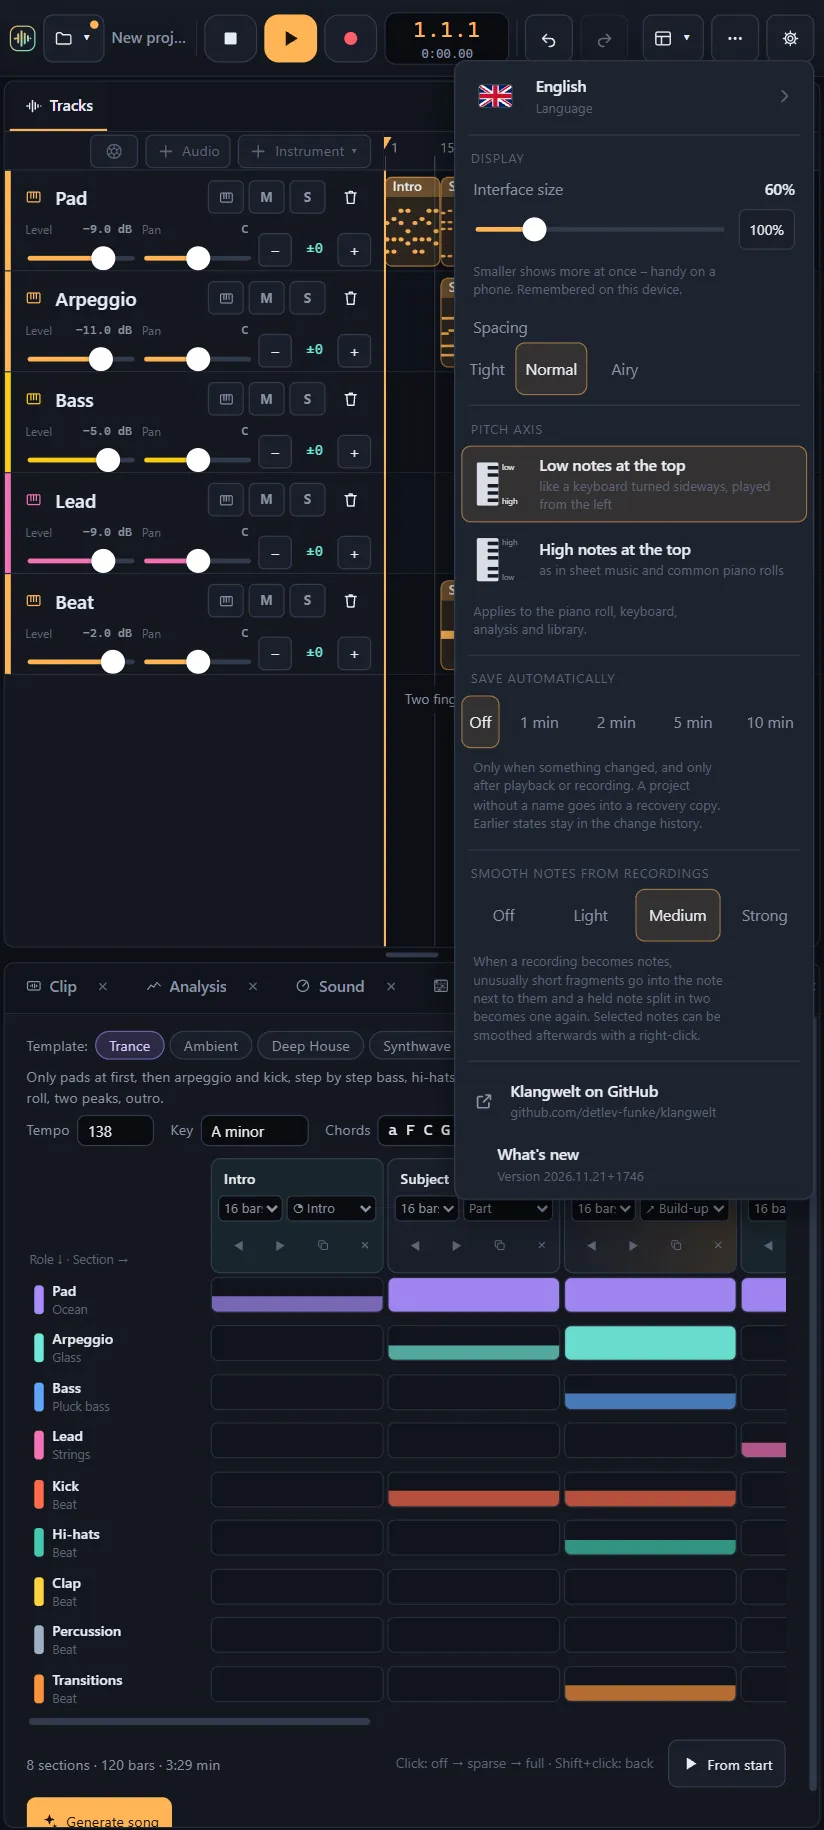
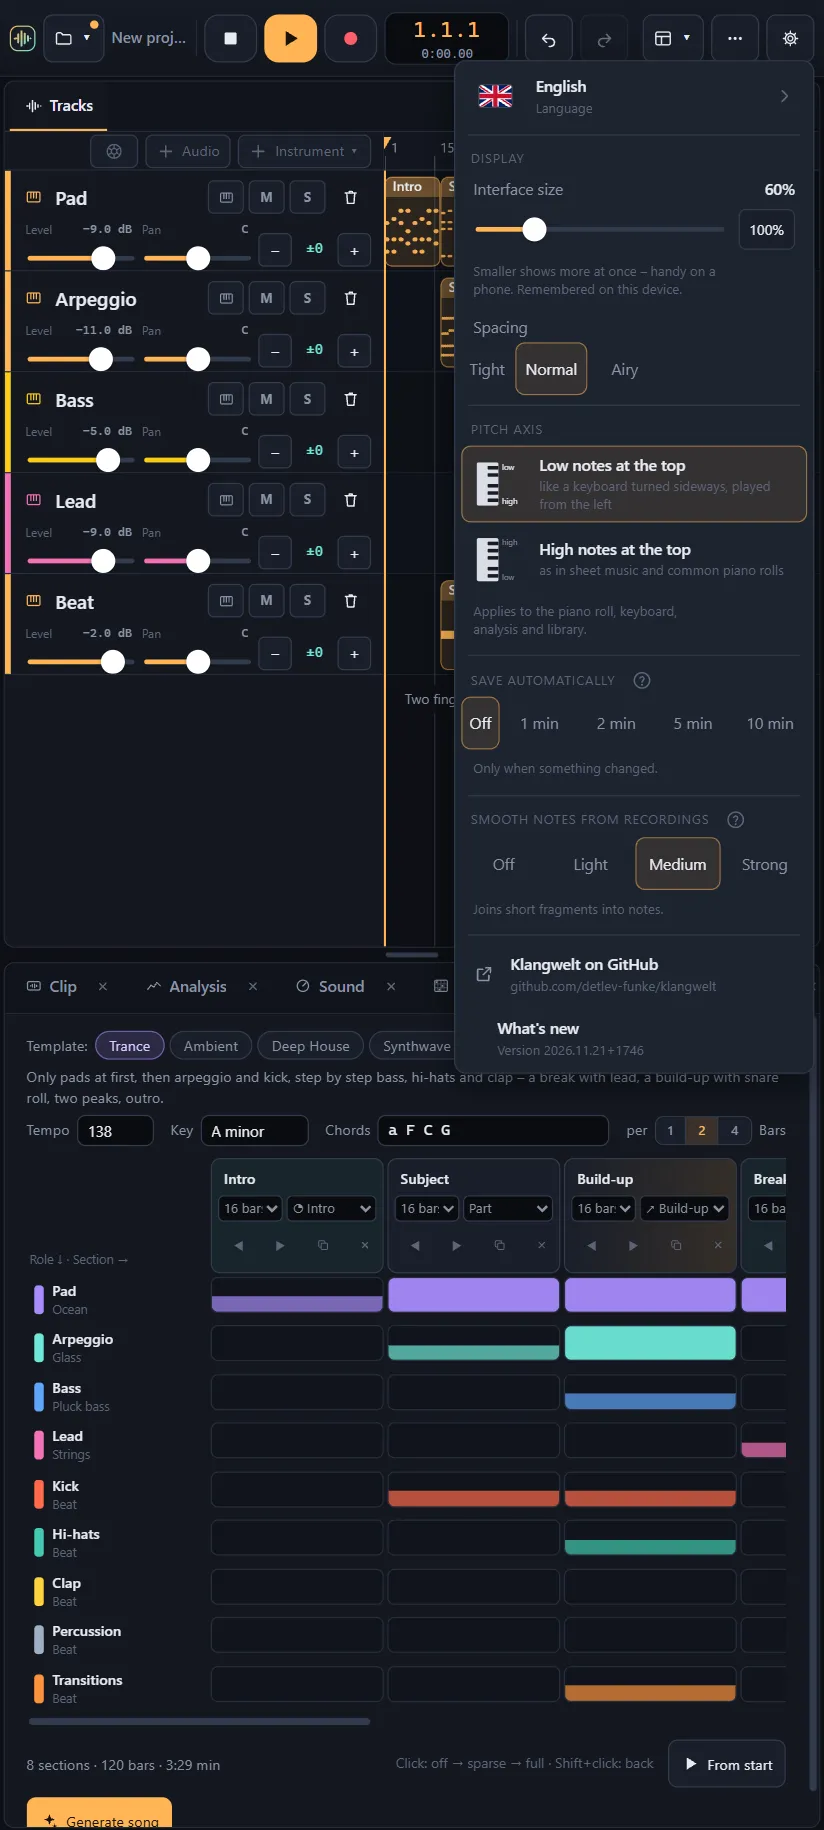
Gear menu: short hints for autosave and smoothing, the full explanation behind ⓘ
The long texts under "Save automatically" and "Smooth notes from recordings"
become a few words. The full explanation is the tooltip of the setting, a tap or
click on the ⓘ next to its title unfolds it (tooltips never show for a finger;
finger-sized on touch screens), and F1 over it shows it in the help window
(help.ts entries einstellungen-autosave / einstellungen-glaetten). Tests in
tests/web/display.test.mjs; the changelog screenshots show the new menu.

Changed region(s): [[0.5461, 0.4049, 0.8799, 0.6852], [0.9102, 0.623, 0.9405, 0.6541], [0.8192, 0.6541, 0.8495, 0.6852]]

diff --git a/ui/src/components/settings.ts b/ui/src/components/settings.ts
@@ -5,6 +5,7 @@ import { AUTOSAVE_CHOICES, autosaveSeconds, setAutosaveSeconds, switchLanguageKe
 import { backend } from "../bridge.js";
 import { dropdown, h, icon, setRange } from "../dom.js";
 import { flag } from "../flags.js";
+import { AUTOSAVE_HELP, SMOOTH_HELP } from "../help.js";
 import { LANGUAGES, language, t } from "../i18n.js";
 import { highOnTop, setHighOnTop } from "../pianoroll.js";
 import { SMOOTH_LEVELS, setSmoothLevel, smoothLabel, smoothLevel, smoothTitle } from "../smoothing.js";
@@ -113,6 +114,34 @@ function languageOptions(close: () => void): HTMLElement {
       ),
     ),
   );
+}
+
+/** A setting with a short hint; the full explanation is its tooltip and, behind an ⓘ button, a line to
+ *  unfold – tooltips never show for a finger. `help`: its entry in the help window (F1, help.ts). */
+function explained(help: string, title: string, options: HTMLElement, short: string, full: string): HTMLElement[] {
+  const more = h("div", { class: "menu-hint menu-more", hidden: true, "data-help": help }, full);
+  const info: HTMLButtonElement = h(
+    "button",
+    {
+      class: "info-btn",
+      title: full,
+      "aria-label": t("More about this"),
+      "aria-expanded": "false",
+      onclick: () => {
+        more.hidden = !more.hidden;
+        info.setAttribute("aria-expanded", more.hidden ? "false" : "true");
+      },
+    },
+    icon("help"),
+  );
+  options.dataset.help = help;
+  options.title = full;
+  return [
+    h("div", { class: "menu-title with-info", "data-help": help }, title, info),
+    options,
+    h("div", { class: "menu-hint", title: full, "data-help": help }, short),
+    more,
+  ];
 }
 
 /** "Language" is always shown in English, too – whoever ended up in a foreign language finds the way back. */
@@ -322,13 +351,9 @@ export function settingsMenu(): HTMLElement {
         option(true, t("High notes at the top"), t("as in sheet music and common piano rolls")),
         h("div", { class: "menu-hint" }, t("Applies to the piano roll, keyboard, analysis and library.")),
         h("div", { class: "menu-sep" }),
-        h("div", { class: "menu-title" }, t("Save automatically")),
-        autosaveOptions(close),
-        h("div", { class: "menu-hint" }, t("Only when something changed, and only after playback or recording. A project without a name goes into a recovery copy. Earlier states stay in the change history.")),
+        ...explained("einstellungen-autosave", t("Save automatically"), autosaveOptions(close), t("Only when something changed."), AUTOSAVE_HELP()),
         h("div", { class: "menu-sep" }),
-        h("div", { class: "menu-title" }, t("Smooth notes from recordings")),
-        smoothOptions(close),
-        h("div", { class: "menu-hint" }, t("When a recording becomes notes, unusually short fragments go into the note next to them and a held note split in two becomes one again. Selected notes can be smoothed afterwards with a right-click.")),
+        ...explained("einstellungen-glaetten", t("Smooth notes from recordings"), smoothOptions(close), t("Joins short fragments into notes."), SMOOTH_HELP()),
         h("div", { class: "menu-sep" }),
         projectLink(close),
         whatsNewMenuItem(close),

diff --git a/ui/src/help.ts b/ui/src/help.ts
@@ -14,6 +14,12 @@ export interface HelpTopic {
   keys?: [string, string][];
 }
 
+/** Full explanations of two gear-menu settings: here in the help window, in the menu as tooltip and behind ⓘ. */
+export const AUTOSAVE_HELP = () =>
+  t("Only when something changed, and only after playback or recording. A project without a name goes into a recovery copy. Earlier states stay in the change history.");
+export const SMOOTH_HELP = () =>
+  t("When a recording becomes notes, unusually short fragments go into the note next to them and a held note split in two becomes one again. Selected notes can be smoothed afterwards with a right-click.");
+
 type Entry = { sel: string; topic: HelpTopic | ((el: Element, x: number, y: number) => HelpTopic) };
 
 const RULER_H = 32;
@@ -172,6 +178,8 @@ const ENTRIES: Entry[] = [
   { sel: "[data-help=rueckgaengig]", topic: { title: t("Undo"), text: [t("Takes back the last step – including changes made by the agent. The tooltip names the step.")], keys: [[t("Ctrl+Z"), t("undo")]] } },
   { sel: "[data-help=wiederherstellen]", topic: { title: t("Redo"), text: [t("Brings back an undone step.")], keys: [[t("Ctrl+Y / Ctrl+Shift+Z"), t("redo")]] } },
   { sel: "[data-help=fenster]", topic: { title: t("Windows"), text: [t("Shows and hides windows and resets the layout. Drag a window by its tab to move it elsewhere: dock it, group it as a tab or let it float freely.")] } },
+  { sel: "[data-help=einstellungen-autosave]", topic: () => ({ title: t("Save automatically"), text: [AUTOSAVE_HELP()] }) },
+  { sel: "[data-help=einstellungen-glaetten]", topic: () => ({ title: t("Smooth notes from recordings"), text: [SMOOTH_HELP()] }) },
   { sel: "[data-help=einstellungen]", topic: { title: t("Settings"), text: [t("Basic settings, e.g. the pitch axis: low notes at the top (like a piano turned sideways) or high notes at the top (like in sheet music)."), t("Save automatically: every few minutes a project with a file is saved into it, a project without a name into a recovery copy that comes back after a crash. \"Off\" saves only when you say so."), t("What's new lists the changes of every version; after an update a dot on the gear points to it.")] } },
   { sel: "canvas.meter", topic: { title: t("Level"), text: [t("Output on top, microphone below. Red means too loud – lower the track levels.")] } },
   { sel: ".chip.agent", topic: { title: t("Agent"), text: [

diff --git a/ui/static/styles.css b/ui/static/styles.css
@@ -840,6 +840,16 @@ body.dk-dragging, body.dk-dragging * { cursor: grabbing !important; user-select:
 .set-option b { font-weight: 600; color: var(--text); }
 .set-option small { font-size: 11px; color: var(--faint); }
 .menu-hint { padding: 4px 10px 6px; font-size: 11px; color: var(--faint); max-width: 230px; }
+/* a setting with its full explanation behind an ⓘ (tooltip; a tap unfolds it – settings.ts explained) */
+.menu-title.with-info { display: flex; align-items: center; gap: 4px; }
+.info-btn { display: inline-flex; align-items: center; justify-content: center; width: 22px; height: 22px; margin: -4px 0; padding: 0; border: 0; border-radius: 6px; background: transparent; color: var(--faint); cursor: pointer; }
+.info-btn:hover, .info-btn[aria-expanded="true"] { color: var(--accent); background: var(--panel-3); }
+.info-btn svg { width: 14px; height: 14px; }
+.menu-hint.menu-more { color: var(--muted); padding-top: 0; }
+@media (pointer: coarse) {
+  .info-btn { width: 36px; height: 36px; margin: -10px 0; }
+  .info-btn svg { width: 17px; height: 17px; }
+}
 .lang-grid { display: grid; grid-template-columns: 1fr 1fr; gap: 2px; }
 .lang-option { padding: 4px 10px 4px 6px; }
 /* the current language in the gear menu; it opens the list as a page of its own */

diff --git a/ui/src/i18n/fr.ts b/ui/src/i18n/fr.ts
@@ -3025,6 +3025,9 @@ const dict: Dict = {
   "Display": "Affichage",
   "The page couldn't be opened: {error}": "Impossible d'ouvrir la page : {error}",
   "Klangwelt on GitHub": "Klangwelt sur GitHub",
+  "Only when something changed.": "Seulement en cas de modification.",
+  "Joins short fragments into notes.": "Réunit les fragments courts en notes.",
+  "More about this": "En savoir plus",
 
   // klangwelt-desktop/app/src/lib.rs – opening the project page
   "Not a web address: {url}": "Ce n'est pas une adresse web : {url}",

diff --git a/ui/src/i18n/it.ts b/ui/src/i18n/it.ts
@@ -3025,6 +3025,9 @@ const dict: Dict = {
   "Display": "Visualizzazione",
   "The page couldn't be opened: {error}": "Impossibile aprire la pagina: {error}",
   "Klangwelt on GitHub": "Klangwelt su GitHub",
+  "Only when something changed.": "Solo se qualcosa è cambiato.",
+  "Joins short fragments into notes.": "Unisce i frammenti brevi in note.",
+  "More about this": "Maggiori informazioni",
 
   // klangwelt-desktop/app/src/lib.rs – opening the project page
   "Not a web address: {url}": "Non è un indirizzo web: {url}",

diff --git a/ui/src/i18n/pl.ts b/ui/src/i18n/pl.ts
@@ -3025,6 +3025,9 @@ const dict: Dict = {
   "Display": "Wygląd",
   "The page couldn't be opened: {error}": "Nie udało się otworzyć strony: {error}",
   "Klangwelt on GitHub": "Klangwelt na GitHubie",
+  "Only when something changed.": "Tylko gdy coś się zmieniło.",
+  "Joins short fragments into notes.": "Łączy krótkie fragmenty w nuty.",
+  "More about this": "Więcej o tym",
 
   // klangwelt-desktop/app/src/lib.rs – opening the project page
   "Not a web address: {url}": "To nie jest adres internetowy: {url}",

diff --git a/ui/src/i18n/de.ts b/ui/src/i18n/de.ts
@@ -2892,6 +2892,9 @@ const dict: Dict = {
   "Display": "Ansicht",
   "The page couldn't be opened: {error}": "Die Seite ließ sich nicht öffnen: {error}",
   "Klangwelt on GitHub": "Klangwelt auf GitHub",
+  "Only when something changed.": "Nur wenn sich etwas geändert hat.",
+  "Joins short fragments into notes.": "Fügt kurze Bruchstücke zu Noten zusammen.",
+  "More about this": "Mehr dazu",
 
   // klangwelt-desktop/app/src/lib.rs – opening the project page
   "Not a web address: {url}": "Keine Webadresse: {url}",

diff --git a/ui/src/i18n/es.ts b/ui/src/i18n/es.ts
@@ -3025,6 +3025,9 @@ const dict: Dict = {
   "Display": "Visualización",
   "The page couldn't be opened: {error}": "No se pudo abrir la página: {error}",
   "Klangwelt on GitHub": "Klangwelt en GitHub",
+  "Only when something changed.": "Solo si algo ha cambiado.",
+  "Joins short fragments into notes.": "Une los fragmentos cortos en notas.",
+  "More about this": "Más información",
 
   // klangwelt-desktop/app/src/lib.rs – opening the project page
   "Not a web address: {url}": "No es una dirección web: {url}",

diff --git a/ui/src/i18n/nl.ts b/ui/src/i18n/nl.ts
@@ -3025,6 +3025,9 @@ const dict: Dict = {
   "Display": "Weergave",
   "The page couldn't be opened: {error}": "De pagina kon niet worden geopend: {error}",
   "Klangwelt on GitHub": "Klangwelt op GitHub",
+  "Only when something changed.": "Alleen als er iets is veranderd.",
+  "Joins short fragments into notes.": "Voegt korte fragmenten samen tot noten.",
+  "More about this": "Meer hierover",
 
   // klangwelt-desktop/app/src/lib.rs – opening the project page
   "Not a web address: {url}": "Geen webadres: {url}",
